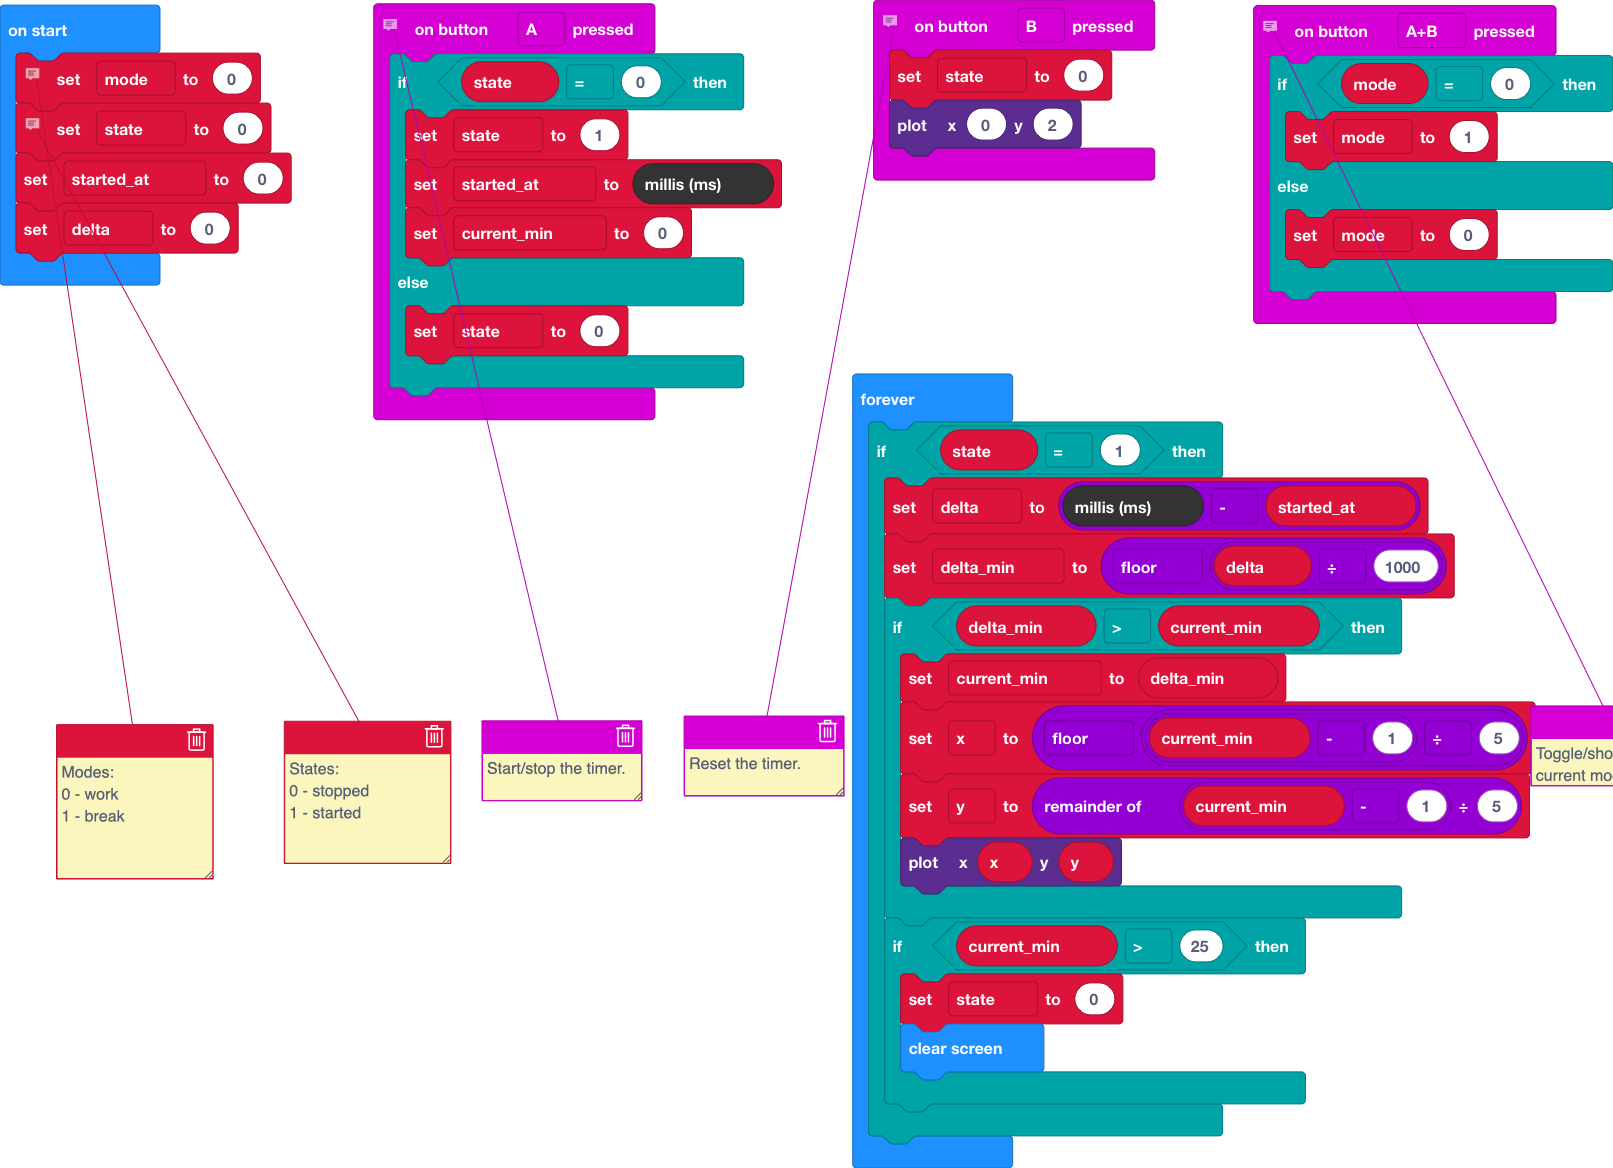
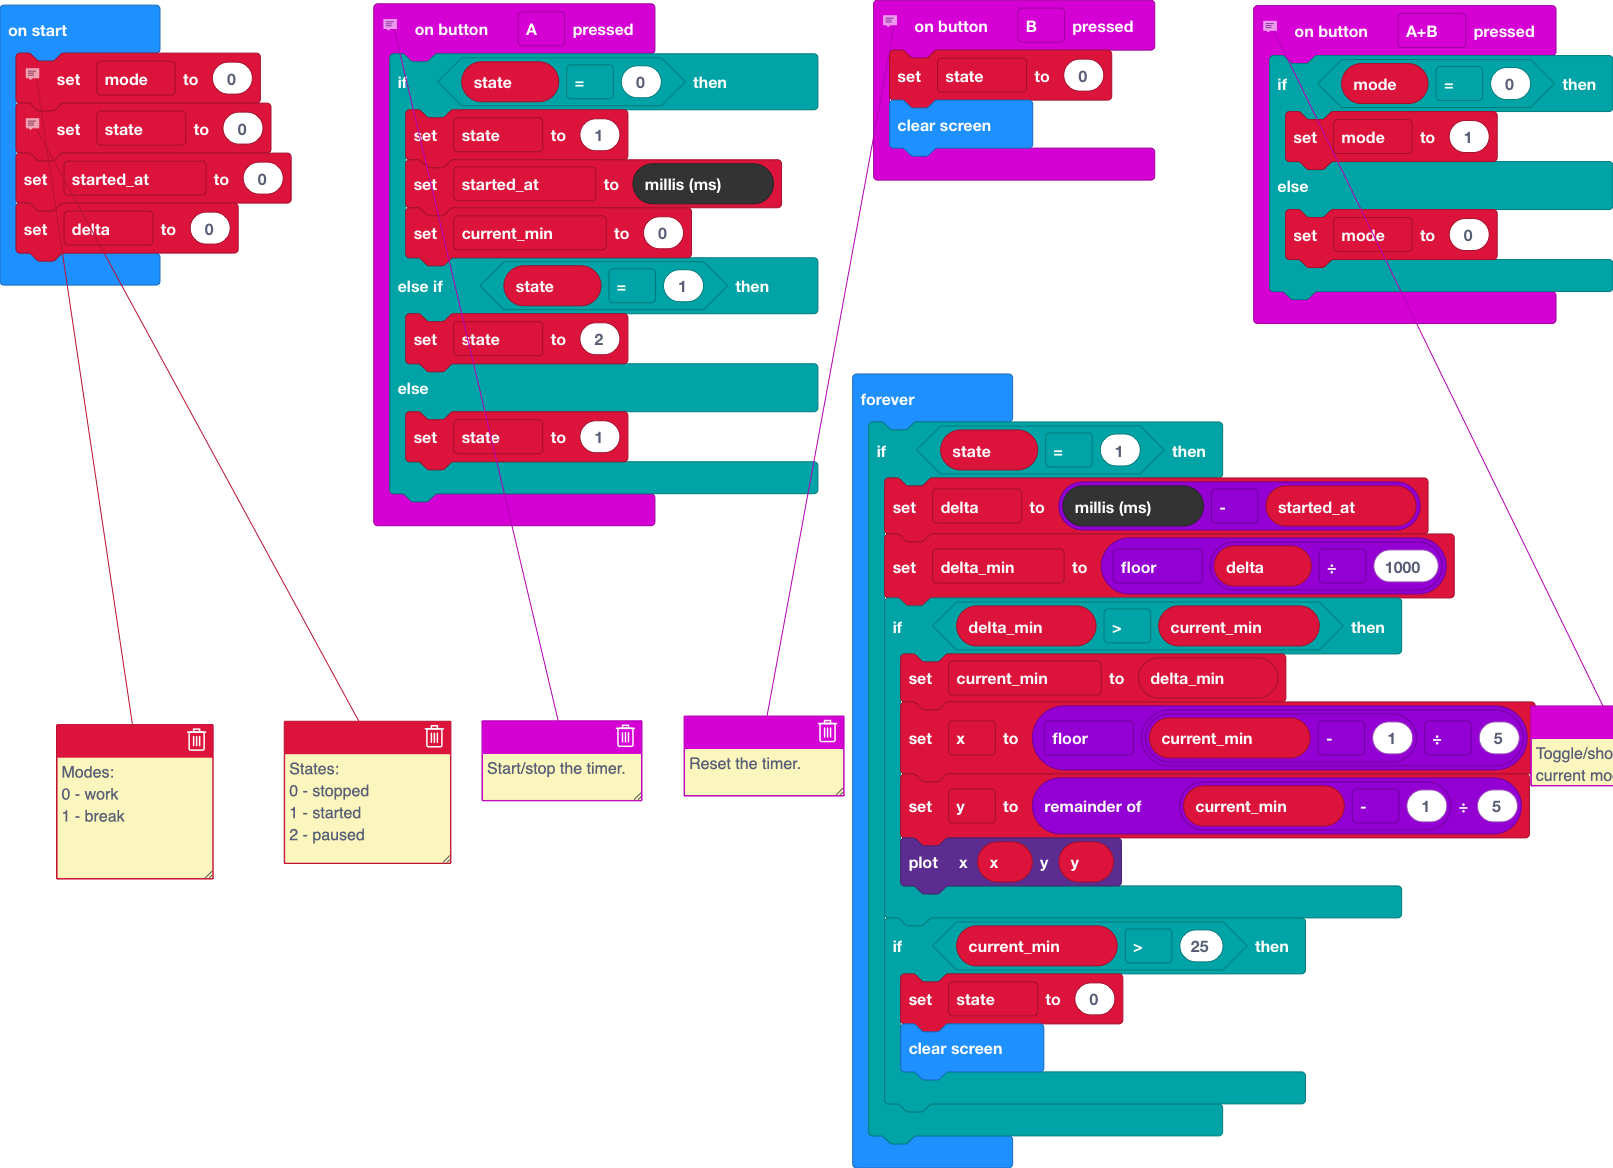
Add `paused`state

diff --git a/main.ts b/main.ts
@@ -4,8 +4,10 @@ input.onButtonPressed(Button.A, function () {
         state = 1
         started_at = control.millis()
         current_min = 0
+    } else if (state == 1) {
+        state = 2
     } else {
-        state = 0
+        state = 1
     }
 })
 // Toggle/show the current mode.
@@ -19,7 +21,7 @@ input.onButtonPressed(Button.AB, function () {
 // Reset the timer.
 input.onButtonPressed(Button.B, function () {
     state = 0
-    led.plot(0, 2)
+    basic.clearScreen()
 })
 let y = 0
 let x = 0
@@ -35,6 +37,7 @@ mode = 0
 // States:
 // 0 - stopped
 // 1 - started
+// 2 - paused
 state = 0
 started_at = 0
 let delta = 0
